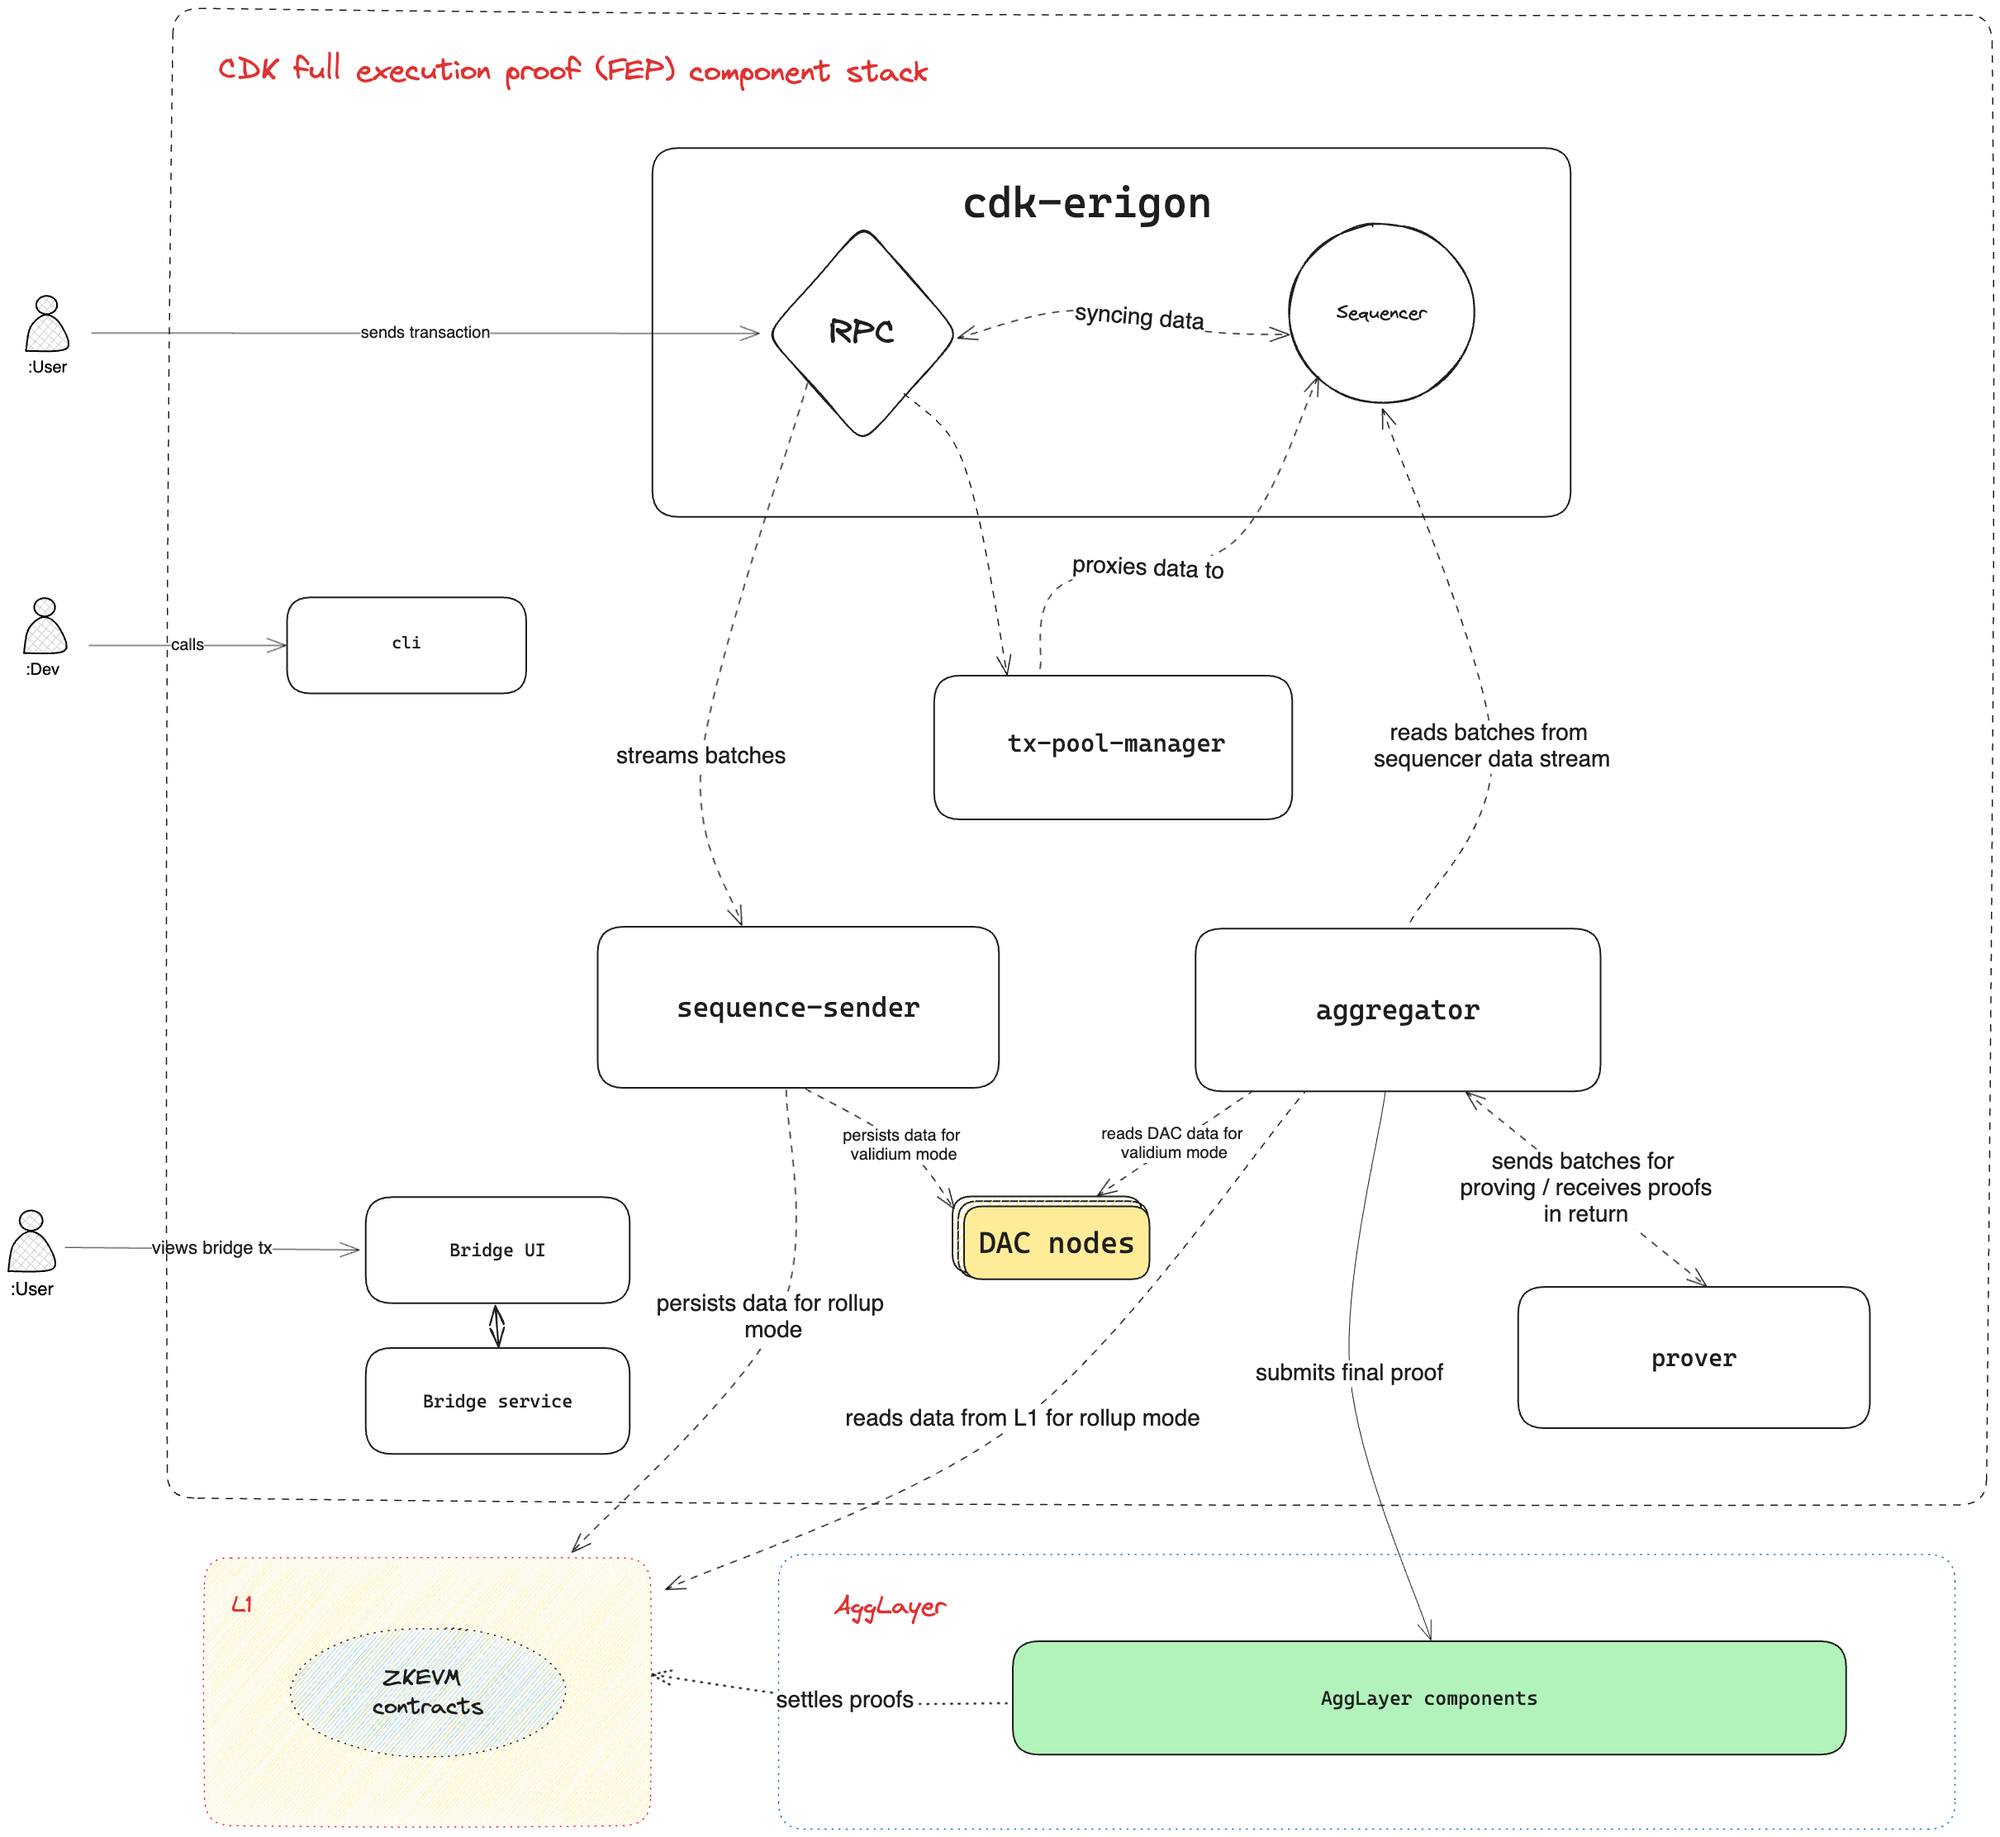
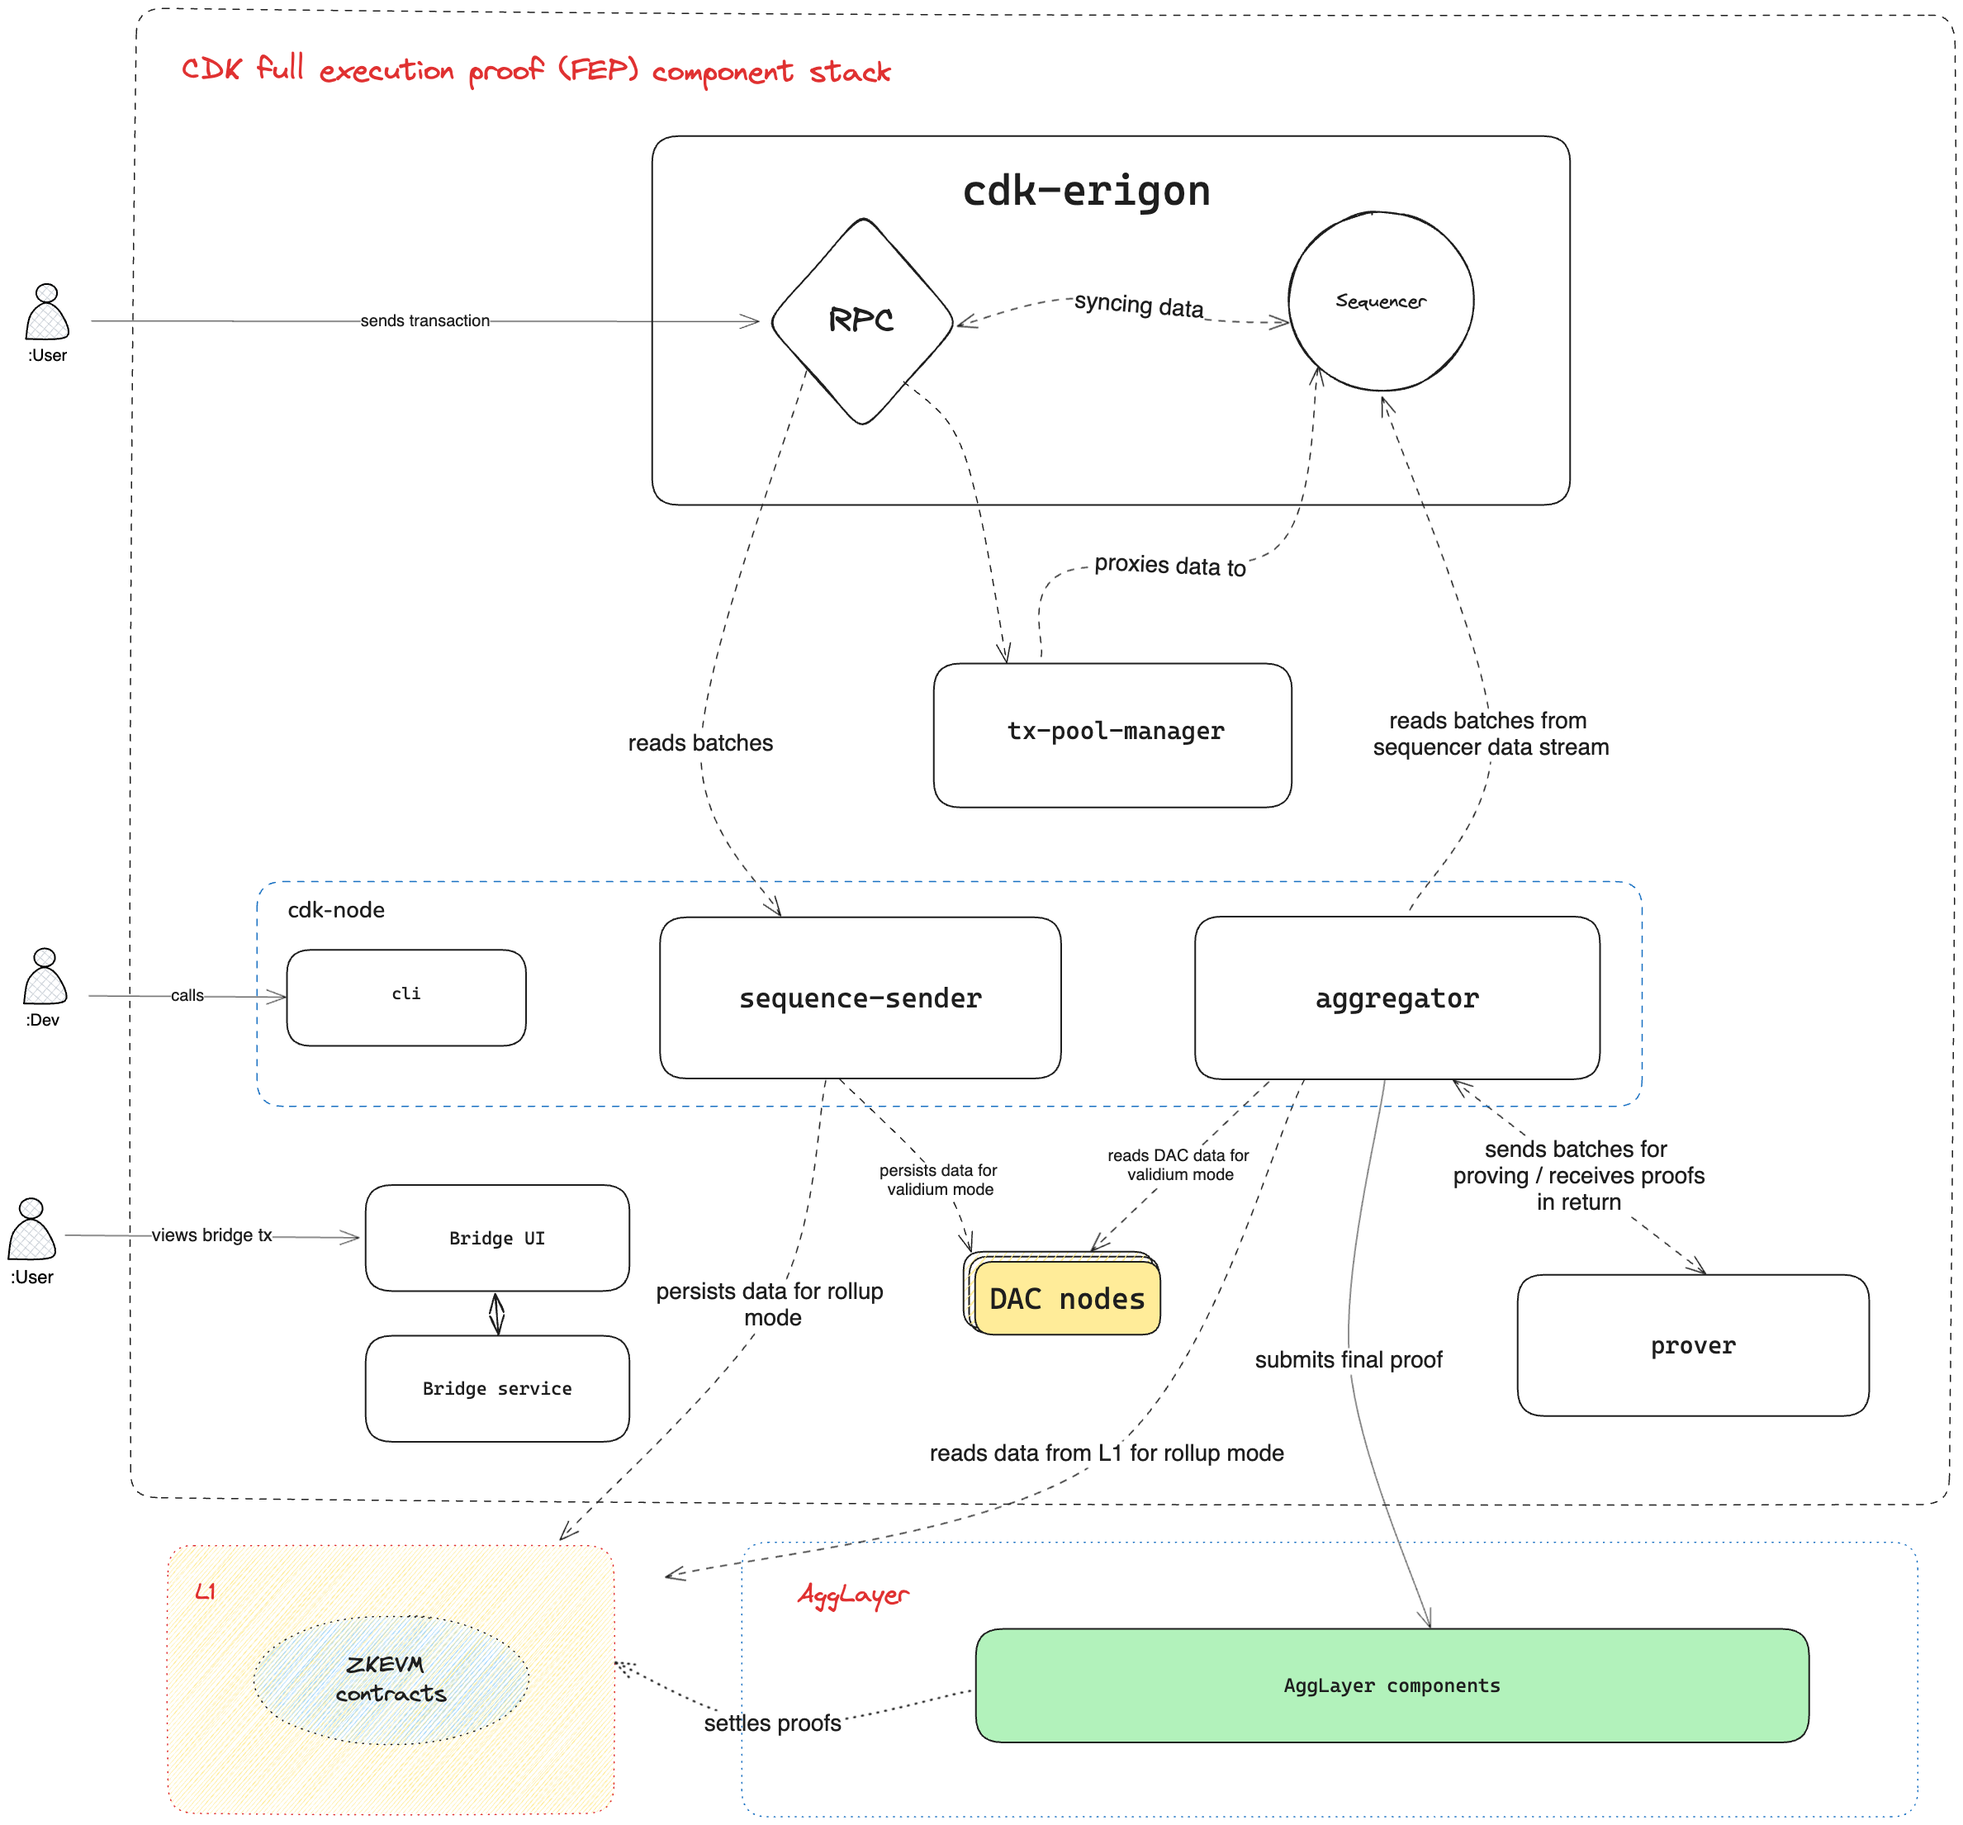
update pic and words

diff --git a/docs/cdk/architecture/high-level-views.md b/docs/cdk/architecture/high-level-views.md
@@ -8,11 +8,11 @@ The following diagram depicts the CDK FEP stack component layout and details som
 
 - Engineers use a CLI to manage the backend components, installing and initializing various modes of operation, such as validium versus rollup for example.
 - External applications send transactions to the CDK Erigon RPC node which forwards the transaction data to the sequencer via the transaction pool manager.
-- The transaction pool manager forwards transactions coming in from the RPC node to the sequencer.
-- The sequencer sequences transactions batches and puts them into the data streamer.
-- The data streamer streams data to the sequencer sender and the aggregator.
-- The sequencer sender sequences batches into the L1 smart contract domain and persists data into DAC nodes for validium mode operations.
-- The aggregator sends batches to the prover and receives proofs in return. It then aggregates the proofs into batches before submitting them to the AggLayer or L1, depending on the chosen settlement layer.
+- The sequencer sequences transactions batches and synchronizes data with the RPC node.
+- The sequencer sender reads batch data from the RPC node.
+- The aggregator reads batch data from the sequencer data stream.
+- The sequencer sender persists data into the L1 smart contract domain for rollup mode and into DAC nodes for validium mode operations.
+- The aggregator sends batches to the prover and receives proofs in return. Together with the prover, it aggregates the proofs into batches before submitting the final proofs to the AggLayer or L1, depending on the chosen settlement layer.
 - Users interact with the bridge service via the bridge UI or API.
 - The AggLayer verifies proofs and interacts with the L1 smart contracts.
 
